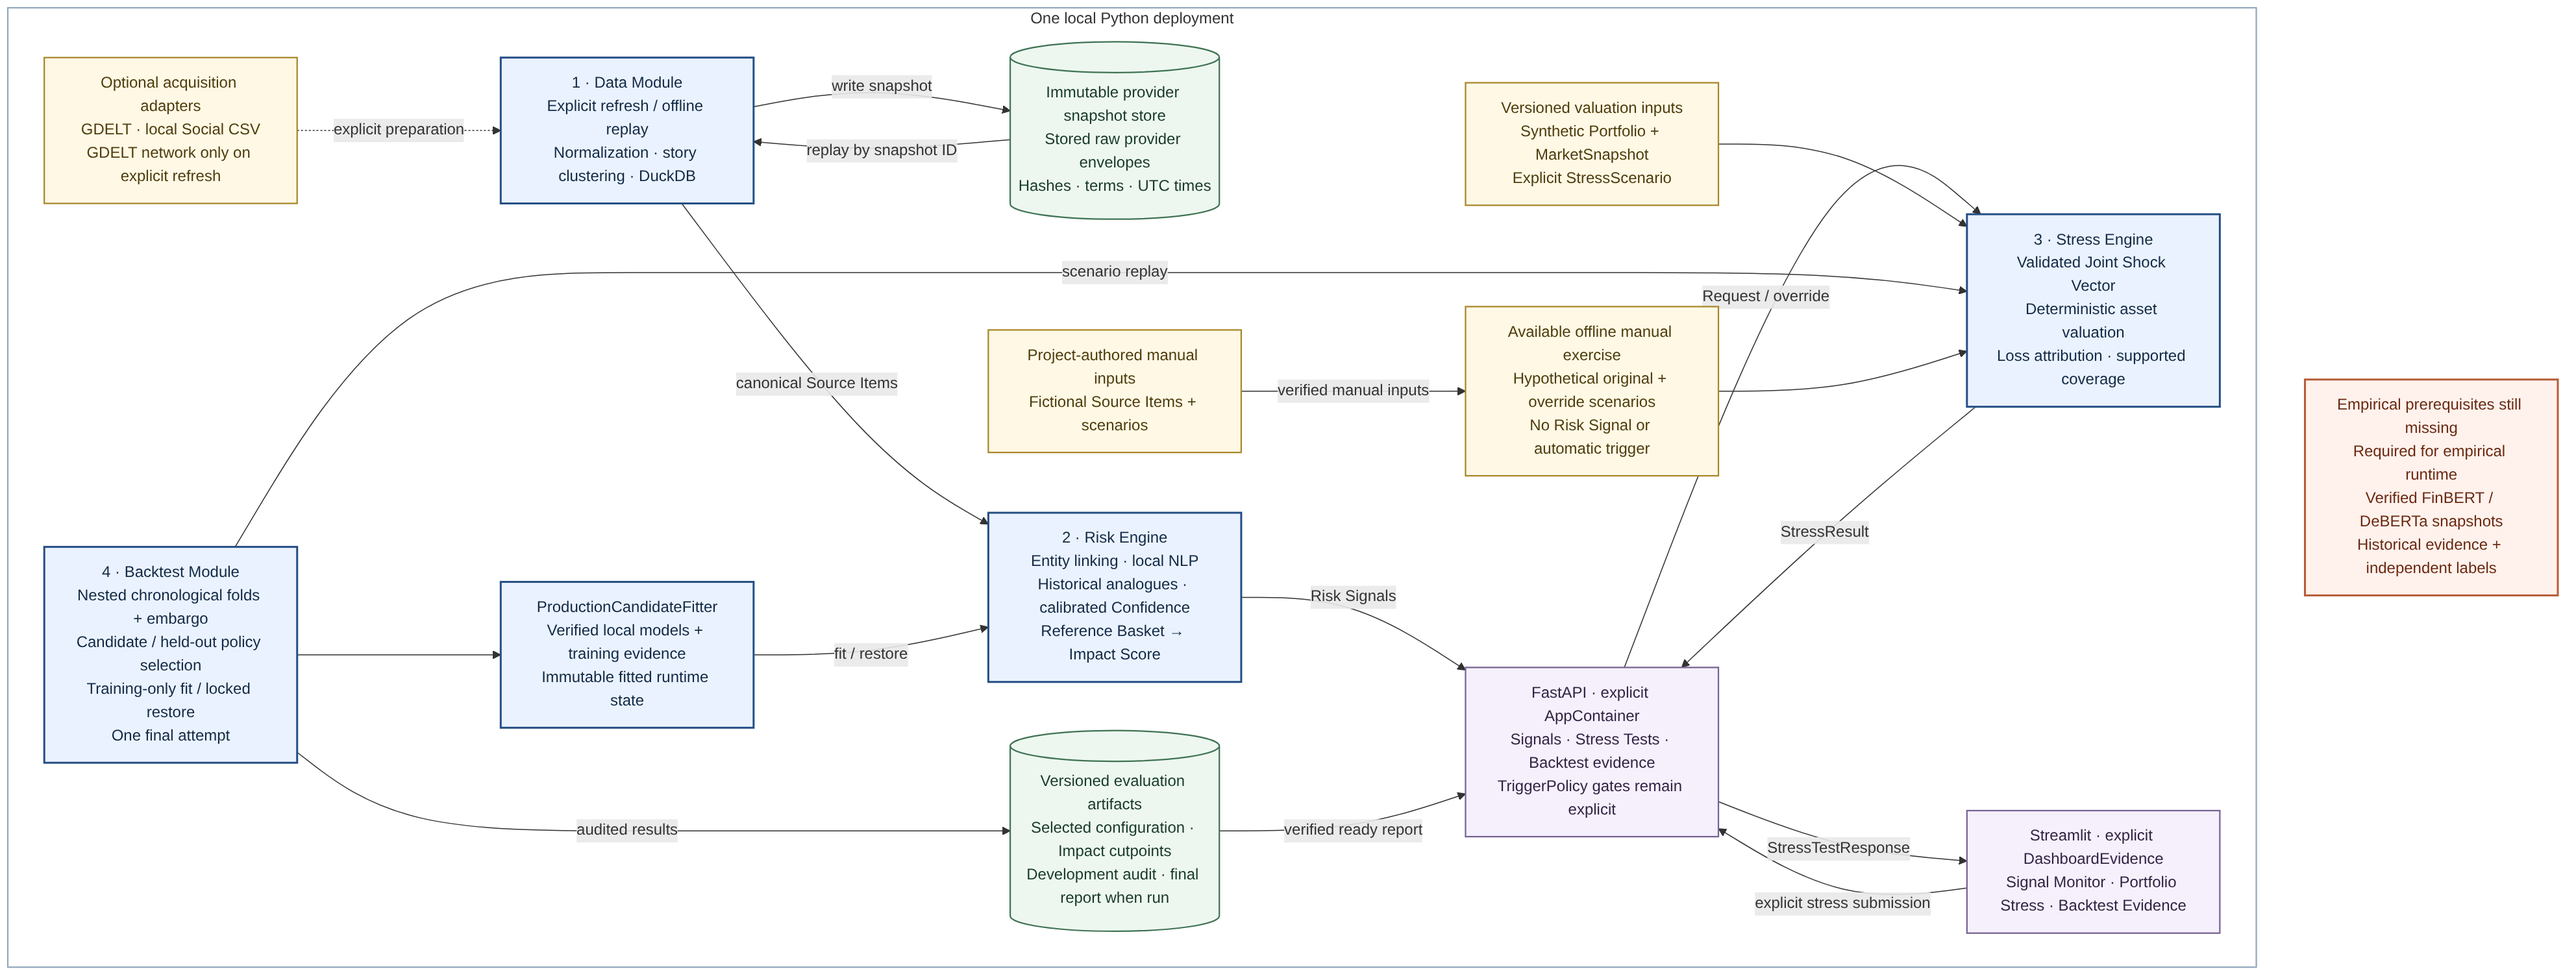
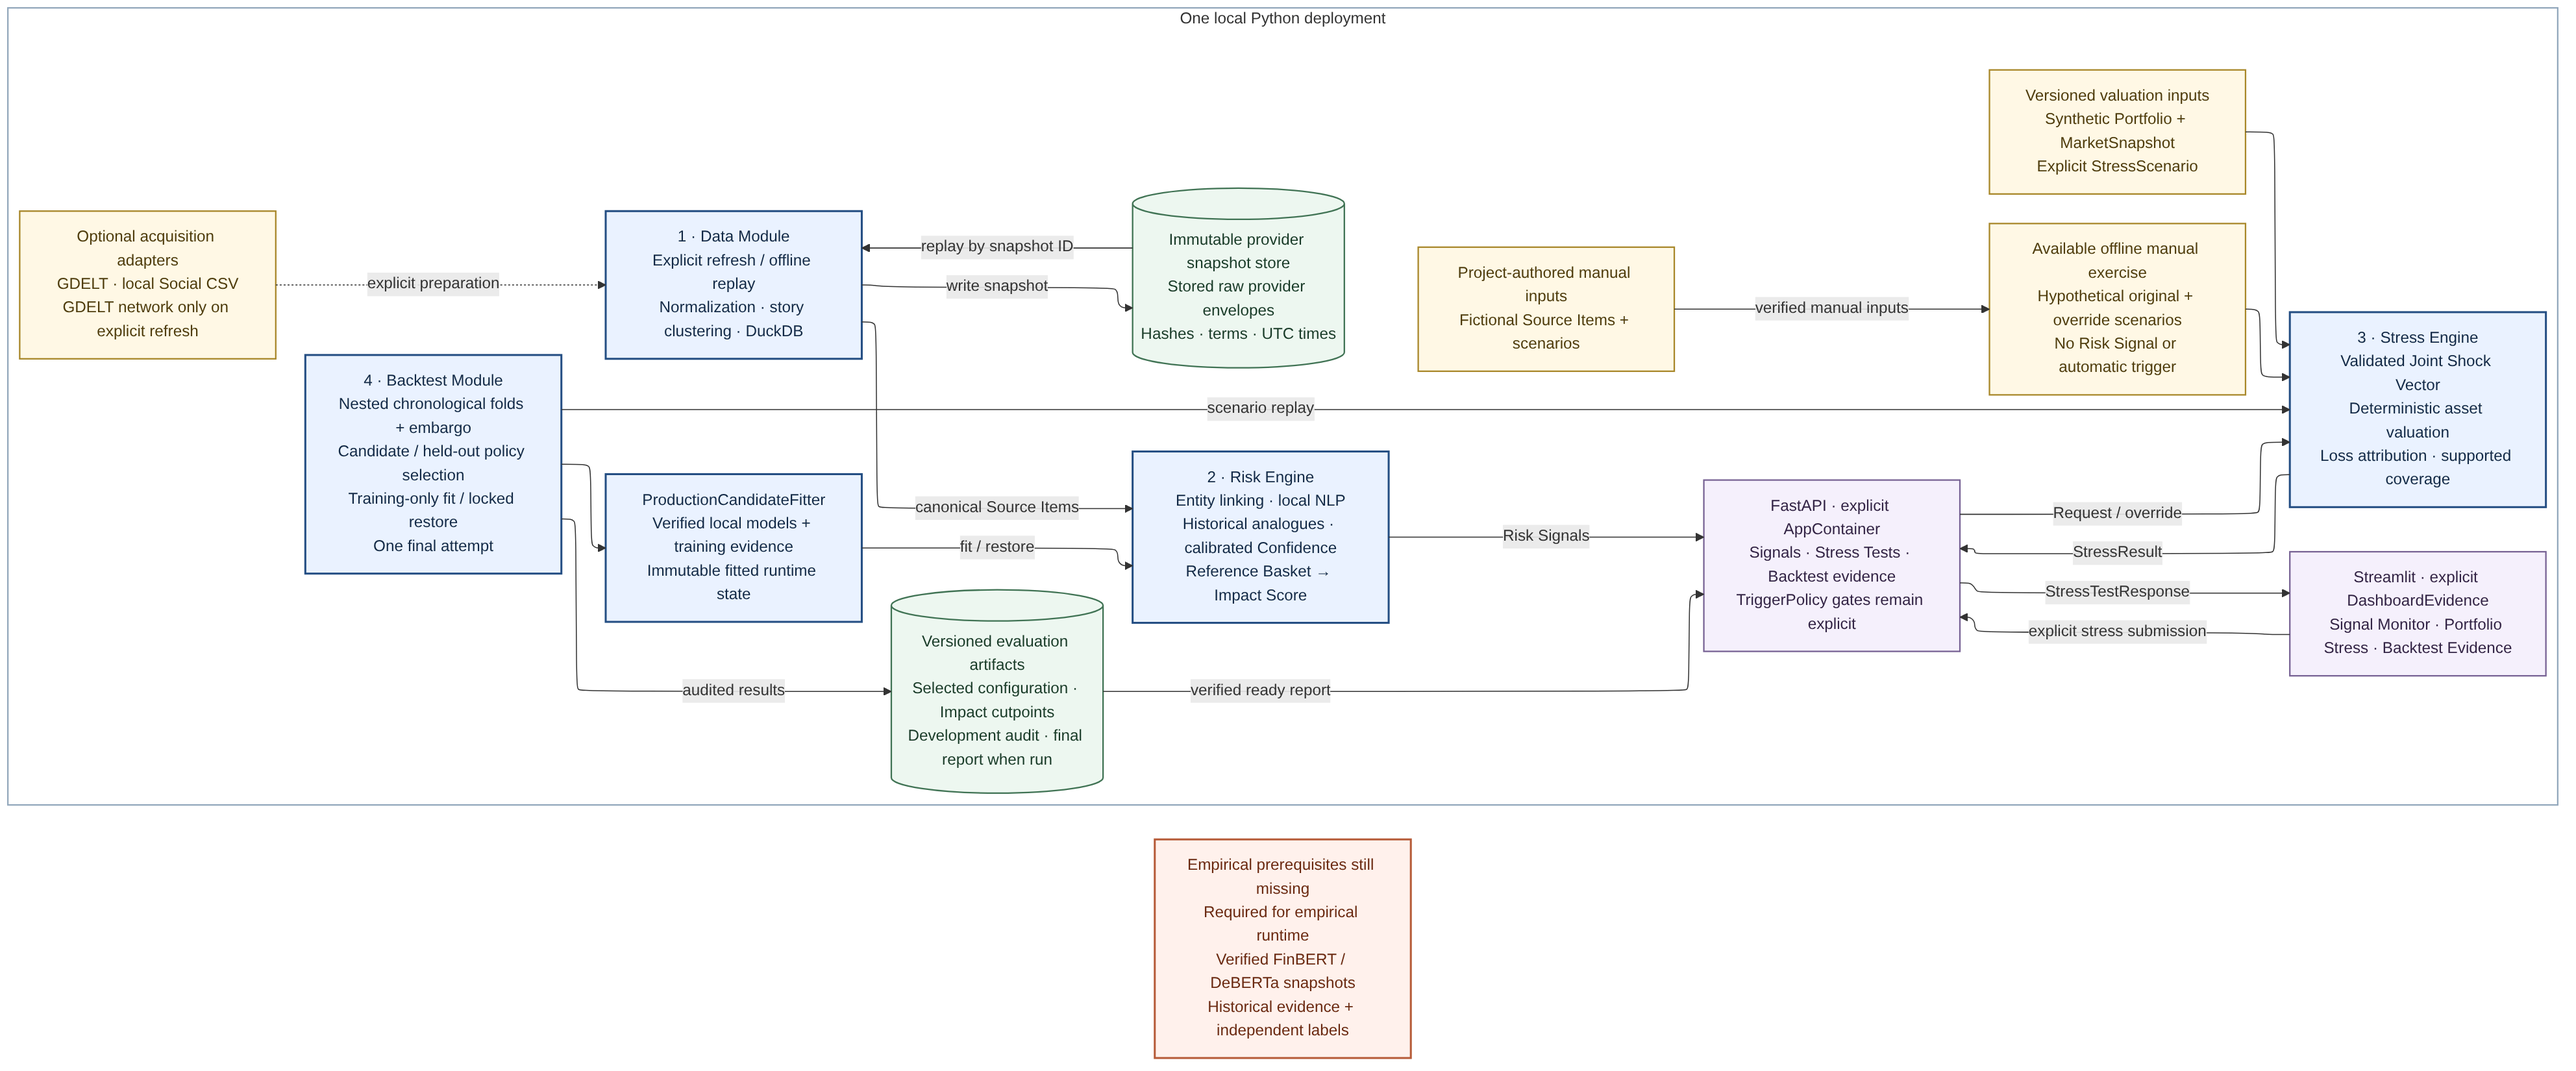
docs: fix stress request routing in architecture diagram

diff --git a/README.md b/README.md
@@ -43,13 +43,13 @@ source = Path("docs/architecture.mmd")
 png = Path("docs/architecture.png")
 metadata = {
     "Title": "Financial Risk Engine architecture",
-    "ArtifactVersion": "financial-risk-architecture-v2",
+    "ArtifactVersion": "financial-risk-architecture-v3",
     "Source": "docs/architecture.mmd",
     "SourceSHA256": sha256(source.read_bytes()).hexdigest(),
     "Author": "Harsh Upadhyay; AI-assisted rendering",
     "AuthoredAt": "2026-10-10",
     "SourceTerms": "MIT; project-authored diagram",
-    "Renderer": "Mermaid CLI 11.12.0; Chrome headless; scale 2; white background",
+    "Renderer": "Mermaid CLI 11.12.0; ELK layout; Chrome headless; scale 2; white background",
     "ImplementationBaseline": "6b87238 plus Tasks 34-38",
 }
 info = PngImagePlugin.PngInfo()
